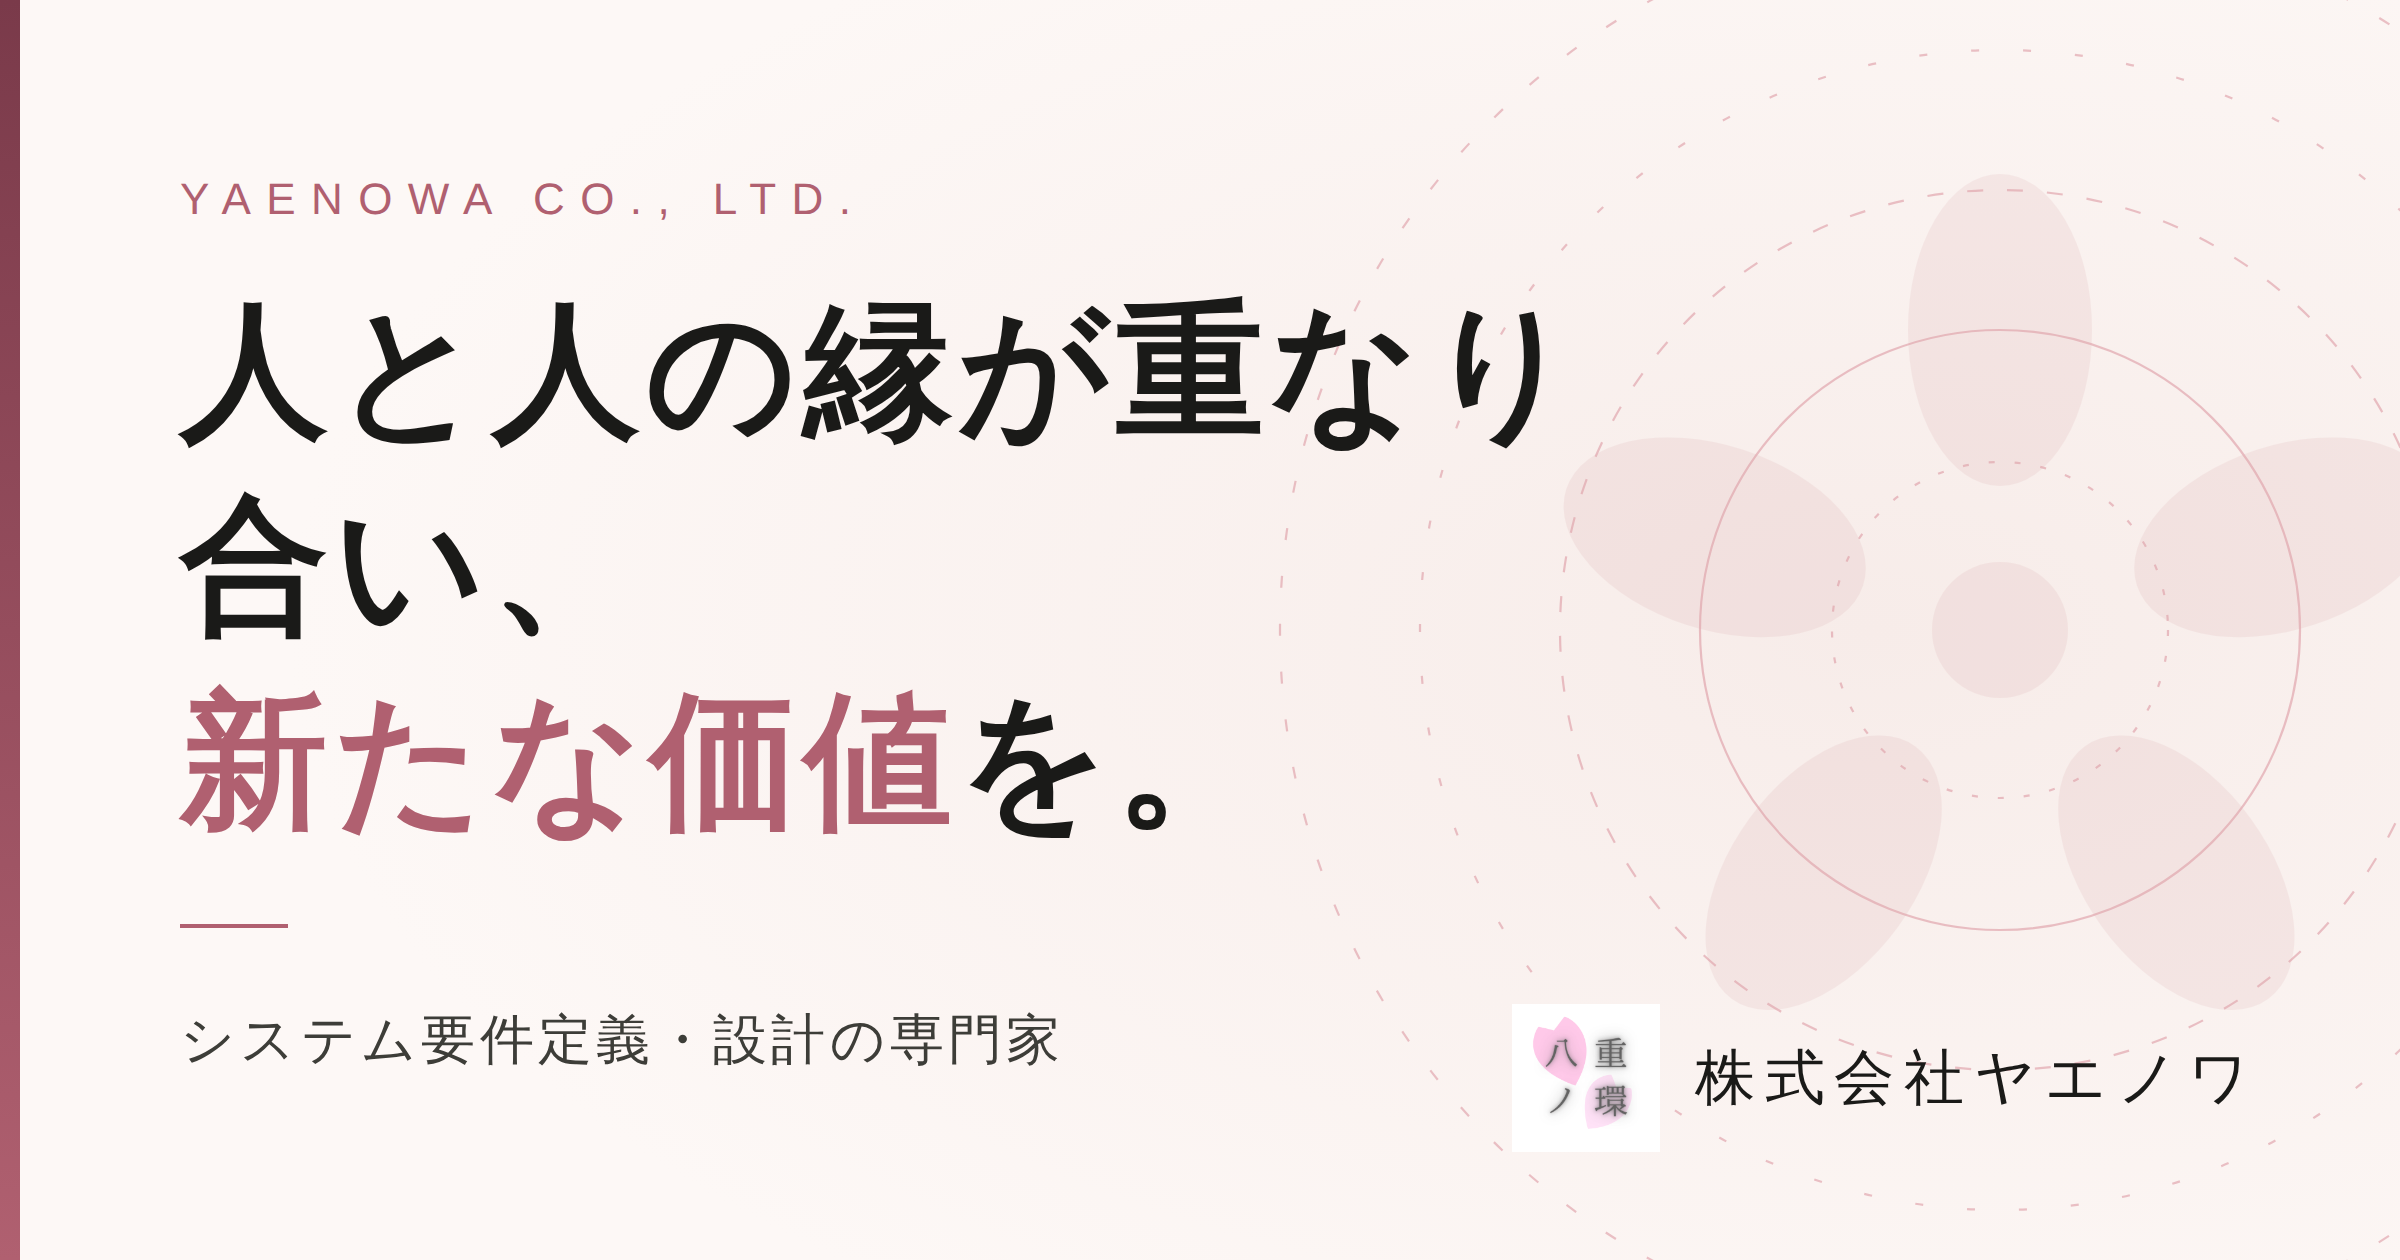
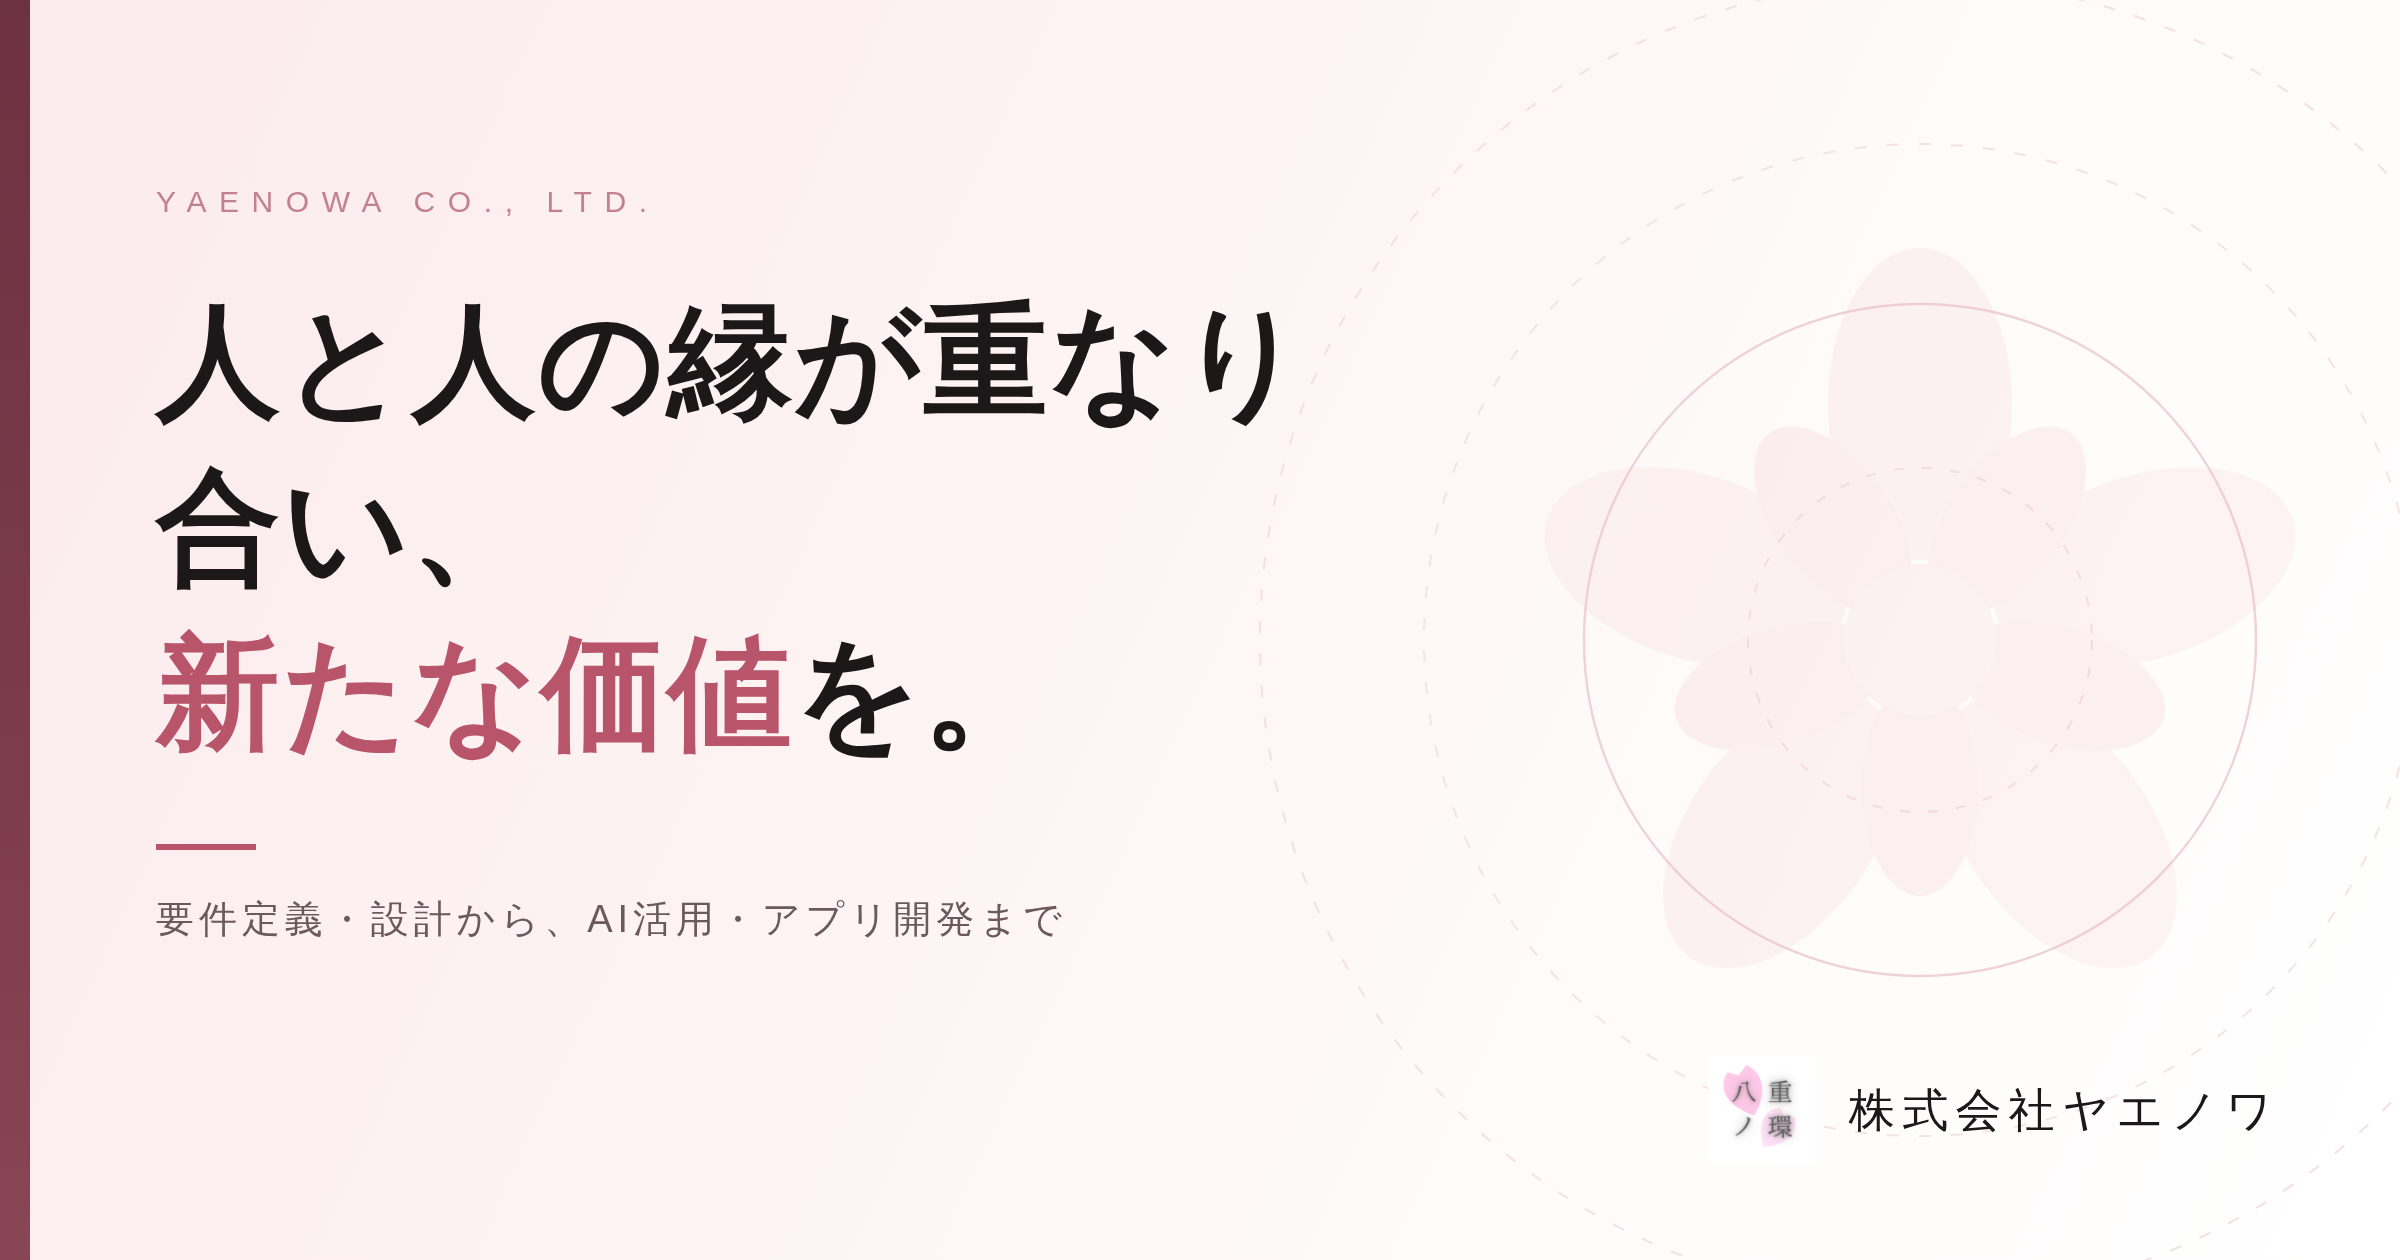
ポジショニング文を4本柱に合わせて広げ、OGP画像を差し替える
所有者判断（案A: 専門を軸に範囲を広げる）。「システム要件定義・設計を専門とする」
だけでは、事業の半分を占めるAIコンサルとアプリ開発に触れないままだった。

- title / meta description / og:description / twitter:description /
  Organization の description / llms.txt 冒頭 / 会社紹介の本文を更新
- og-image.png を再生成（キャッチコピーとデザインは維持し、下部の一文を
  「要件定義・設計から、AI活用・アプリ開発まで」に差し替え）
- og:image:alt / twitter:image:alt を3ページで更新
- 装飾SVGがダークモードで沈む件を IMPROVEMENTS.md に起票

実機（Chromium）でライト・ダーク両方の表示を確認済み。

Claude-Session: https://claude.ai/code/session_01WoAecmG4b2GXxD5LNgUGDN

diff --git a/index.html b/index.html
@@ -5,8 +5,8 @@
 <meta name="viewport" content="width=device-width, initial-scale=1.0">
 <!-- 共通テーマ処理（JS有効フラグ・テーマ初期化・切替ボタン）。描画前に実行するため同期読み込み -->
 <script src="theme.js"></script>
-<title>株式会社ヤエノワ | システム要件定義・設計の専門家</title>
-<meta name="description" content="株式会社ヤエノワは、正確性を厳しく問われる基幹システムで培った専門知識をもとに、システム要件定義・設計を専門とする会社です。ご縁と共創を軸に、ITの力でビジネスの未来をともに描きます。">
+<title>株式会社ヤエノワ | システム要件定義・設計からAI活用・アプリ開発まで</title>
+<meta name="description" content="株式会社ヤエノワは、正確性を厳しく問われる基幹システムで培った専門知識をもとに、システム要件定義・設計を軸として、システム導入支援・生成AIの活用・アプリ開発まで対応する会社です。ご縁と共創を大切に、ITの力でビジネスの未来をともに描きます。">
 <meta name="keywords" content="システム要件定義,システム設計,ITコンサルティング,システム導入支援,AIコンサルティング,生成AI導入支援,アプリ開発,EC連携,OMS,基幹システム,ヤエノワ,株式会社ヤエノワ">
 <meta name="author" content="株式会社ヤエノワ">
 <meta name="robots" content="index, follow">
@@ -20,22 +20,22 @@
 
 <!-- OGP（SNSシェア用） -->
 <meta property="og:type" content="website">
-<meta property="og:title" content="株式会社ヤエノワ | システム要件定義・設計の専門家">
-<meta property="og:description" content="正確性を厳しく問われる基幹システムで培った専門知識をもとに、システム要件定義・設計を専門とする会社です。ご縁と共創を軸に、ITの力でビジネスの未来をともに描きます。">
+<meta property="og:title" content="株式会社ヤエノワ | システム要件定義・設計からAI活用・アプリ開発まで">
+<meta property="og:description" content="正確性を厳しく問われる基幹システムで培った専門知識をもとに、システム要件定義・設計を軸として、システム導入支援・生成AIの活用・アプリ開発まで対応します。ご縁と共創を大切に、ITの力でビジネスの未来をともに描きます。">
 <meta property="og:url" content="https://yaenowa.co.jp/">
 <meta property="og:site_name" content="株式会社ヤエノワ">
 <meta property="og:locale" content="ja_JP">
 <meta property="og:image" content="https://yaenowa.co.jp/og-image.png">
 <meta property="og:image:width" content="1200">
 <meta property="og:image:height" content="630">
-<meta property="og:image:alt" content="株式会社ヤエノワ｜人と人の縁が重なり合い、新たな価値を。システム要件定義・設計の専門家">
+<meta property="og:image:alt" content="株式会社ヤエノワ｜人と人の縁が重なり合い、新たな価値を。要件定義・設計から、AI活用・アプリ開発まで">
 
 <!-- Twitter Card -->
 <meta name="twitter:card" content="summary_large_image">
-<meta name="twitter:title" content="株式会社ヤエノワ | システム要件定義・設計の専門家">
-<meta name="twitter:description" content="正確性を厳しく問われる基幹システムで培った専門知識をもとに、システム要件定義・設計を専門とする会社です。">
+<meta name="twitter:title" content="株式会社ヤエノワ | システム要件定義・設計からAI活用・アプリ開発まで">
+<meta name="twitter:description" content="正確性を厳しく問われる基幹システムで培った専門知識をもとに、要件定義・設計を軸として、システム導入支援・生成AIの活用・アプリ開発まで対応します。">
 <meta name="twitter:image" content="https://yaenowa.co.jp/og-image.png">
-<meta name="twitter:image:alt" content="株式会社ヤエノワ｜人と人の縁が重なり合い、新たな価値を。システム要件定義・設計の専門家">
+<meta name="twitter:image:alt" content="株式会社ヤエノワ｜人と人の縁が重なり合い、新たな価値を。要件定義・設計から、AI活用・アプリ開発まで">
 
 <!-- 構造化データ（Googleリッチリザルト / AIO 用） -->
 <script type="application/ld+json">
@@ -54,7 +54,7 @@
       },
       "image": "https://yaenowa.co.jp/LOGO.png",
       "foundingDate": "2025-04-03",
-      "description": "正確性を厳しく問われる基幹システムで培った専門知識をもとに、システム要件定義・設計を専門とするITコンサルティング会社。ご縁と共創を軸に、上流工程からプロジェクトをリードします。",
+      "description": "正確性を厳しく問われる基幹システムで培った専門知識をもとに、システム要件定義・設計を軸として、システム導入支援・生成AIの活用・アプリ開発まで対応するITコンサルティング会社。ご縁と共創を大切に、上流工程からプロジェクトをリードします。",
       "slogan": "人と人の縁が重なり合い、新たな価値を。",
       "email": "yoshida+contact@yaenowa.co.jp",
       "address": {
@@ -1931,7 +1931,7 @@
           ともに価値を創っていく。
         </p>
         <p class="about-body">
-          株式会社ヤエノワは、代表が長年にわたり基幹システムの設計・構築・実装を通じて培った専門知識をもとに、システム要件定義・設計の専門家として活動しています。<br><br>
+          株式会社ヤエノワは、代表が長年にわたり基幹システムの設計・構築・実装を通じて培った専門知識をもとに、システム要件定義・設計を軸として、システム導入支援・生成AIの活用・アプリ開発まで手がけています。<br><br>
           「どんなビジネスであっても、根っこにあるのは人と人との関係性」という信念のもと、パートナーとともに事業の発展に寄与し続けます。
         </p>
       </div>

diff --git a/audio-guide-privacy.html b/audio-guide-privacy.html
@@ -24,10 +24,10 @@
 <meta property="og:image" content="https://yaenowa.co.jp/og-image.png">
 <meta property="og:image:width" content="1200">
 <meta property="og:image:height" content="630">
-<meta property="og:image:alt" content="株式会社ヤエノワ｜人と人の縁が重なり合い、新たな価値を。システム要件定義・設計の専門家">
+<meta property="og:image:alt" content="株式会社ヤエノワ｜人と人の縁が重なり合い、新たな価値を。要件定義・設計から、AI活用・アプリ開発まで">
 <meta name="twitter:card" content="summary_large_image">
 <meta name="twitter:image" content="https://yaenowa.co.jp/og-image.png">
-<meta name="twitter:image:alt" content="株式会社ヤエノワ｜人と人の縁が重なり合い、新たな価値を。システム要件定義・設計の専門家">
+<meta name="twitter:image:alt" content="株式会社ヤエノワ｜人と人の縁が重なり合い、新たな価値を。要件定義・設計から、AI活用・アプリ開発まで">
 
 <!-- 構造化データ -->
 <script type="application/ld+json">

diff --git a/privacy.html b/privacy.html
@@ -24,10 +24,10 @@
 <meta property="og:image" content="https://yaenowa.co.jp/og-image.png">
 <meta property="og:image:width" content="1200">
 <meta property="og:image:height" content="630">
-<meta property="og:image:alt" content="株式会社ヤエノワ｜人と人の縁が重なり合い、新たな価値を。システム要件定義・設計の専門家">
+<meta property="og:image:alt" content="株式会社ヤエノワ｜人と人の縁が重なり合い、新たな価値を。要件定義・設計から、AI活用・アプリ開発まで">
 <meta name="twitter:card" content="summary_large_image">
 <meta name="twitter:image" content="https://yaenowa.co.jp/og-image.png">
-<meta name="twitter:image:alt" content="株式会社ヤエノワ｜人と人の縁が重なり合い、新たな価値を。システム要件定義・設計の専門家">
+<meta name="twitter:image:alt" content="株式会社ヤエノワ｜人と人の縁が重なり合い、新たな価値を。要件定義・設計から、AI活用・アプリ開発まで">
 
 <!-- 構造化データ -->
 <script type="application/ld+json">

diff --git a/IMPROVEMENTS.md b/IMPROVEMENTS.md
@@ -29,7 +29,11 @@
      ボタンを持たない `services/nippo-slides.html` では theme-color が更新されない。
      他ページでダークを選んだ状態で開くと本文はダーク・アドレスバーはライトになる。
    - 同期処理を `setupToggle()` の外へ出すか、当該ページにもトグルを置く。
-7. **アクセス解析の導入**（🔒 ユーザー判断待ち・着手しない）
+7. **装飾SVGアイコンの `currentColor` 化**（技術系・自動マージ可）
+   - 対応領域アコーディオンのアイコンは `#7a3a4a` / `#c0606a` を直書きしており、
+     ダークモードで背景に沈む。`currentColor` とトークン参照に置き換える。
+   - 4項目すべてに同じ問題があるため、まとめて直すのが早い。
+8. **アクセス解析の導入**（🔒 ユーザー判断待ち・着手しない）
    - GA4 / Cloudflare Web Analytics 等。ユーザーのアカウント作業が必要。
    - 導入時は privacy.html 第8条・第9条の改定が必須（CLAUDE.md 法務メモ参照）
 
